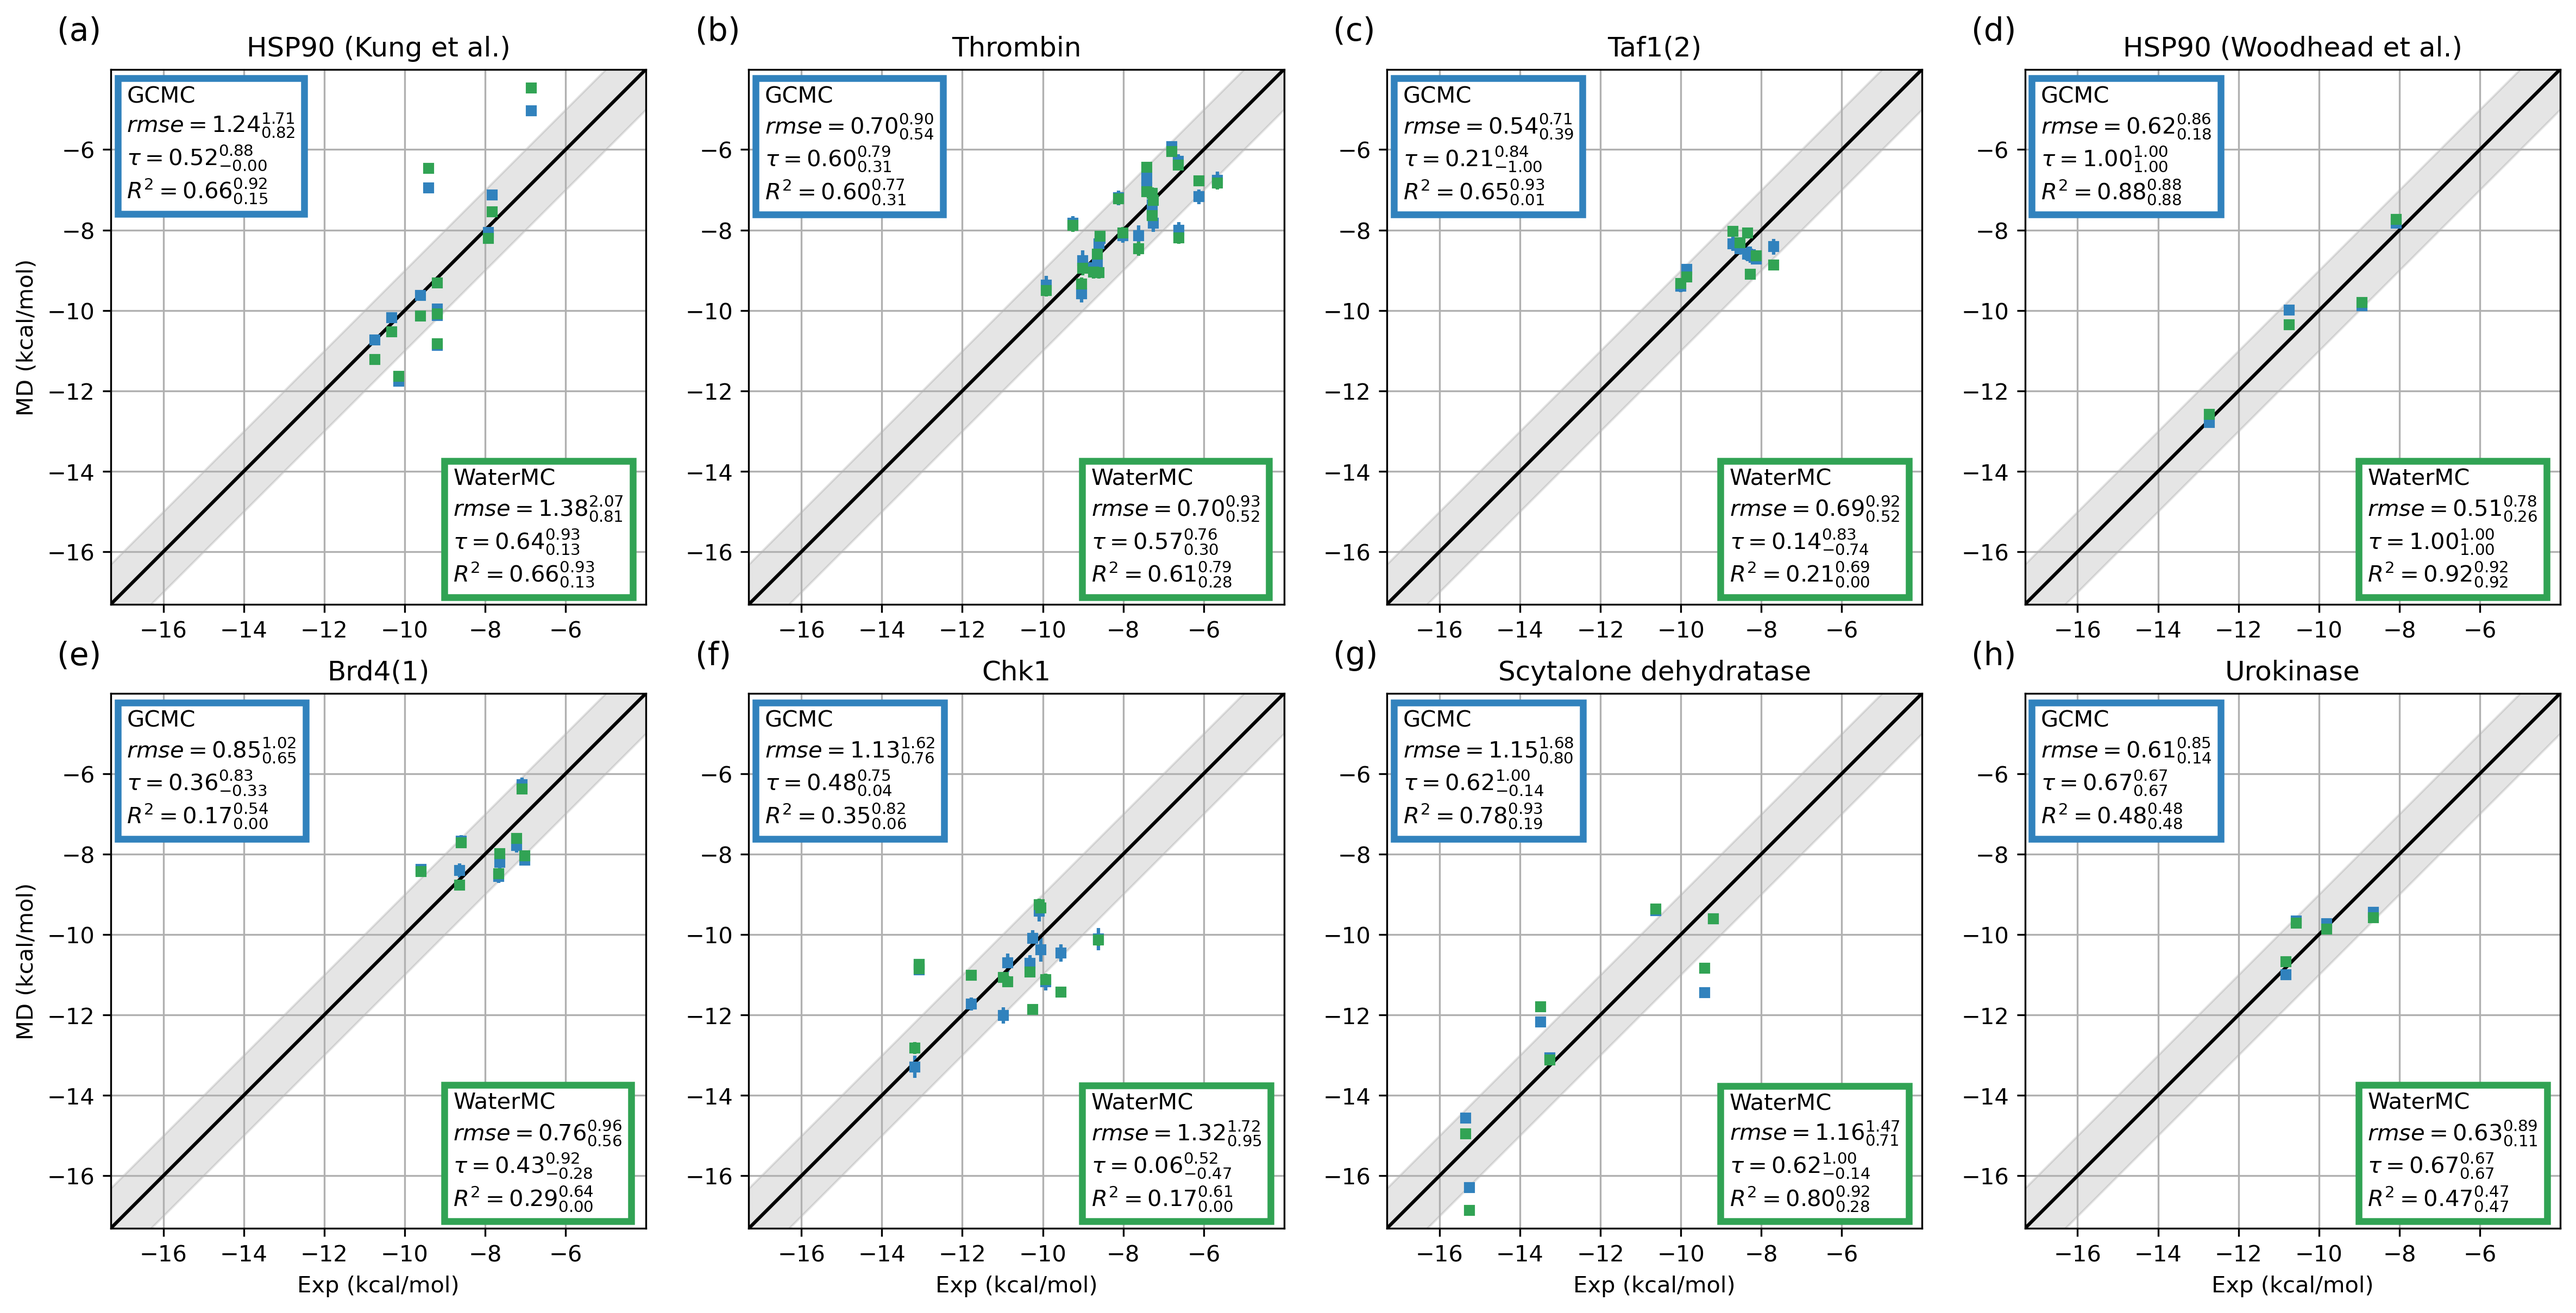
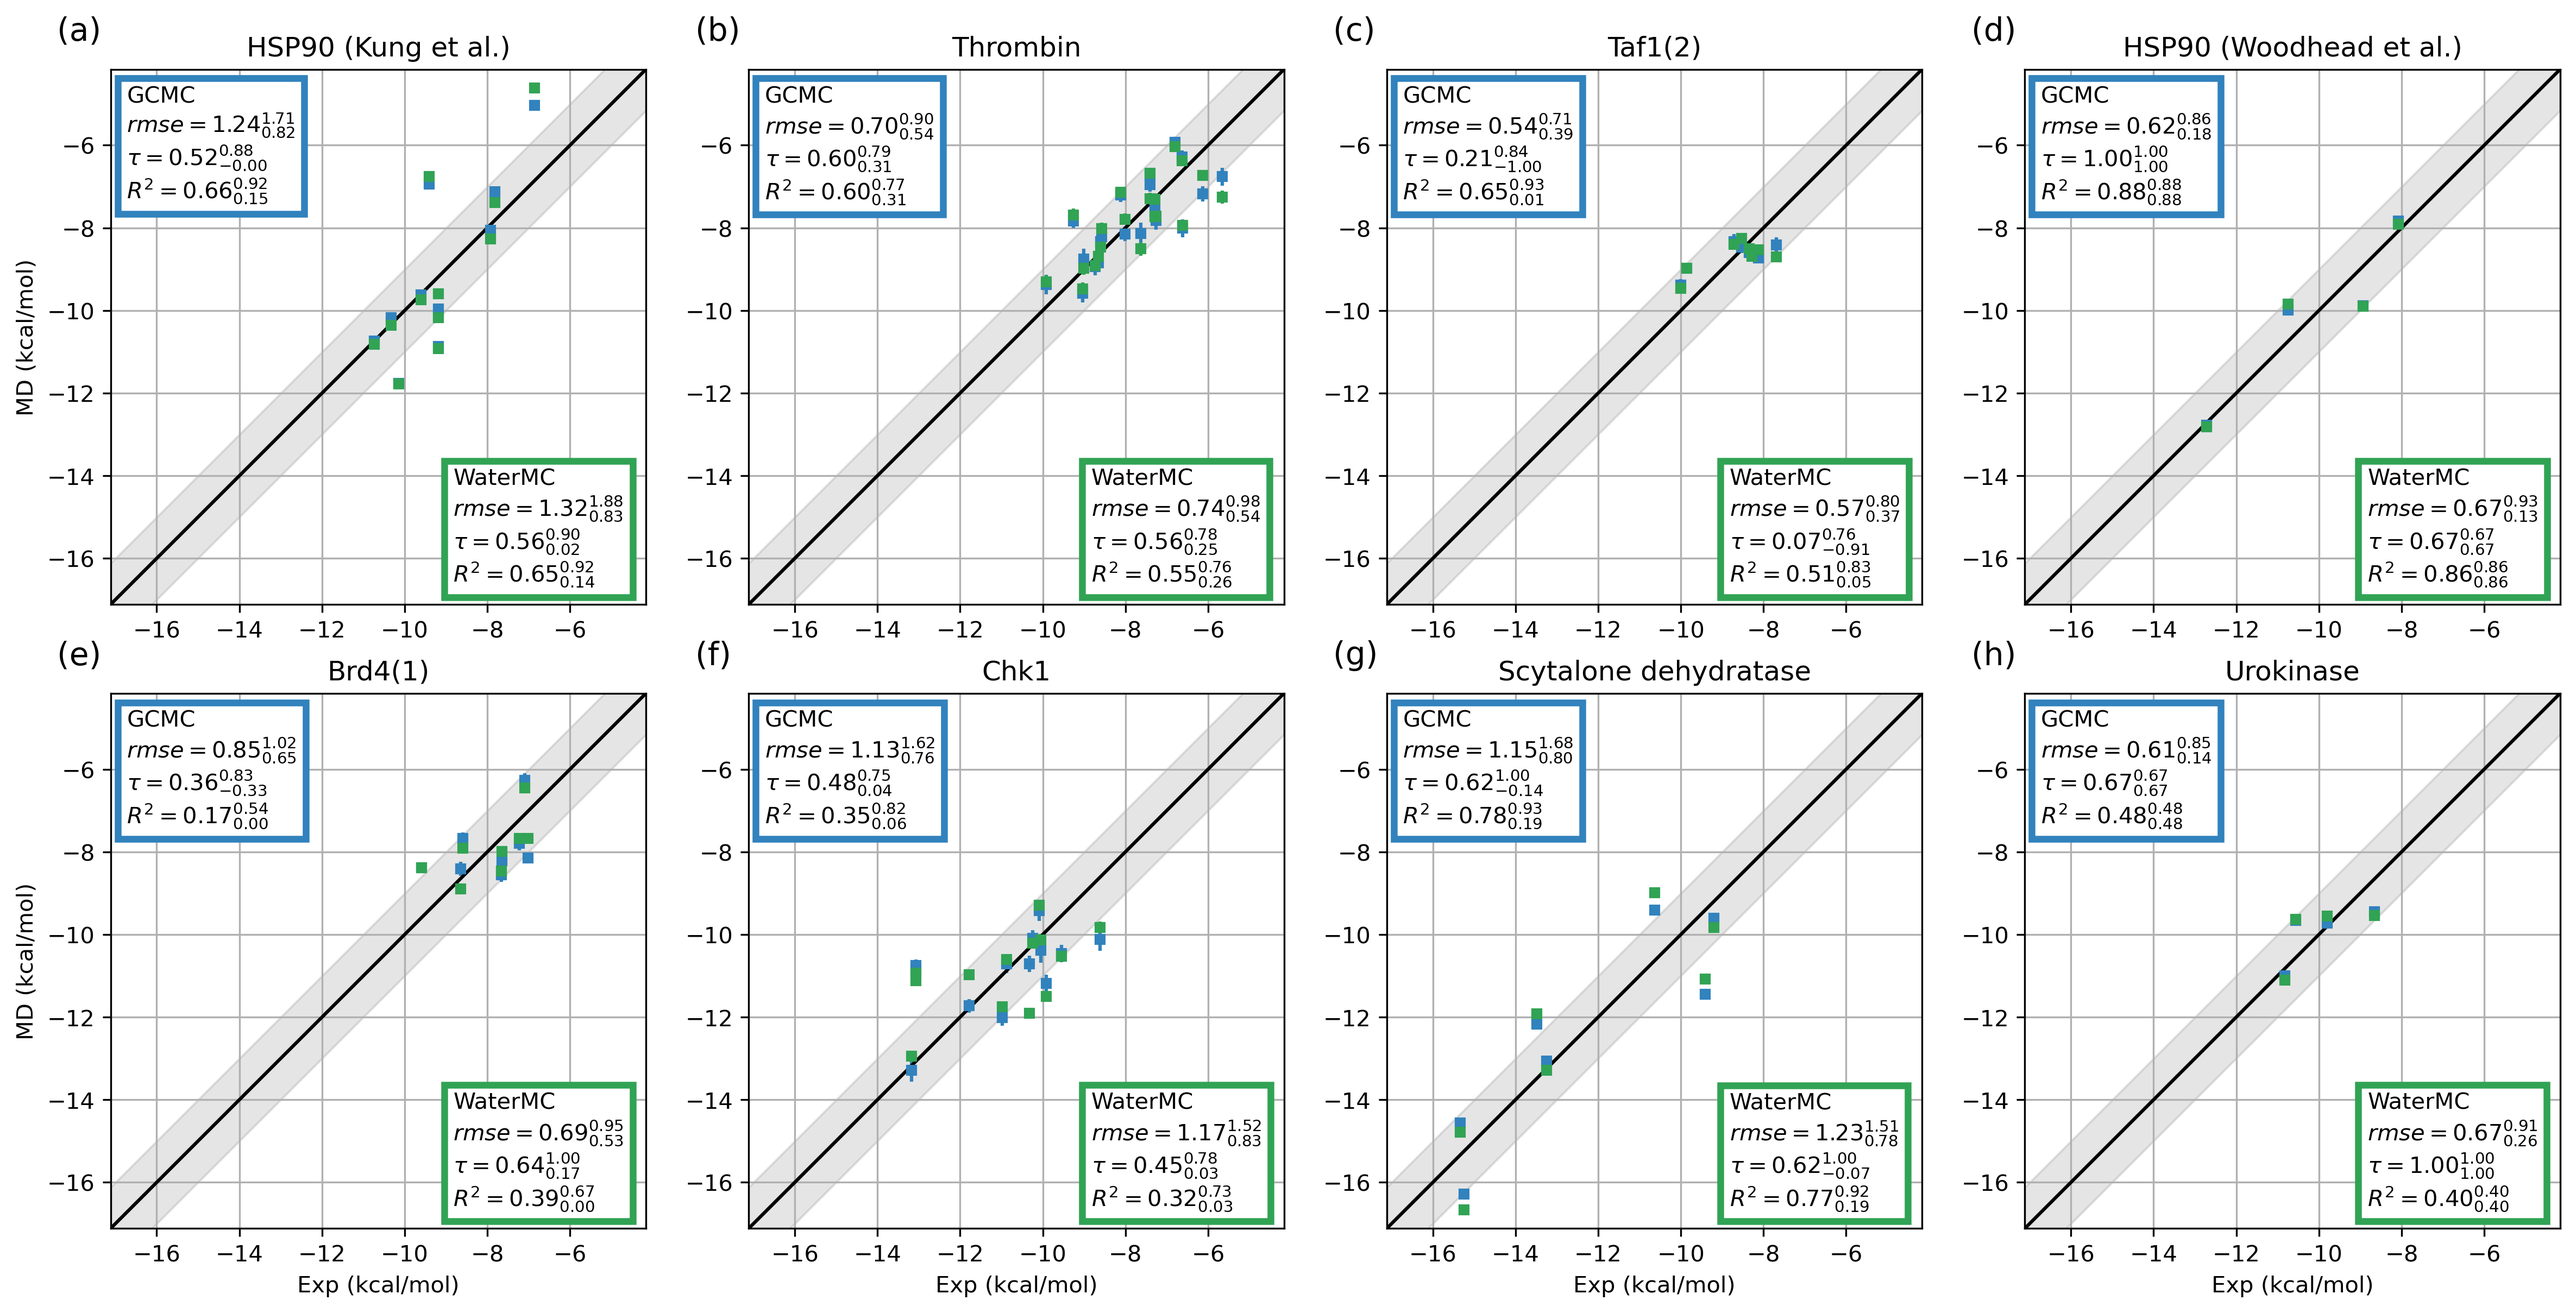
Update benchmark results

diff --git a/README.md b/README.md
@@ -34,7 +34,7 @@ which mpirun                  # check if the correct mpirun is used
 
 **What this shows:** aggregated error across the full water set (lower is better).  
 - GrandFEP (GCMC): **0.92** kcal/mol  
-- GrandFEP (WaterMC): **0.99** kcal/mol  
+- GrandFEP (WaterMC): **0.95** kcal/mol  
 - FEP+: **0.86** kcal/mol  
 - OpenFE: **1.60** kcal/mol  
 
